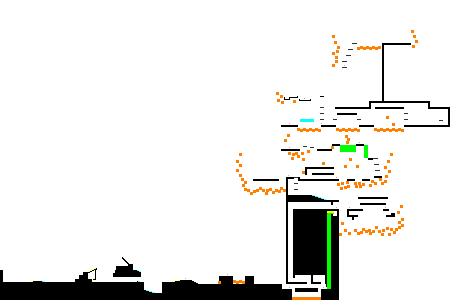
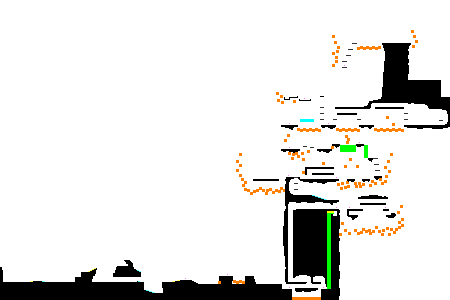
LightningChain tweaks + Forest tweaks
Updated LightningChains for Construction Site.
Update collisionData for Construction Site to be more organic.
Updated collisionData for Forest to make branches more modular.

diff --git a/WorldsApart/WorldsApart/Code/Levels/Level7.cs b/WorldsApart/WorldsApart/Code/Levels/Level7.cs
@@ -63,10 +63,11 @@ namespace WorldsApart.Code.Levels
            
             levelDataTexture = gsPlay.LoadTexture("Levels/level7Data");
 
+
             player1Pos = GridToPosition(5, 280);
             player2Pos = GridToPosition(7, 280);
 
-            //player1Pos = GridToPosition(330, 120);
+            //player1Pos = GridToPosition(353, 40);
             //player2Pos = player1Pos;
 
             portalPos = GridToPosition(394, 41);
@@ -92,9 +93,13 @@ namespace WorldsApart.Code.Levels
 
             MovingPlatform underCrane = gsPlay.AddReversePlatform(gsPlay.LoadTexture("TestSprites/platform"), Level.GridToPosition(new Point(153, 275)), Level.GridToPosition(new Point(153, 282)));
             FlipSwitch crane = gsPlay.AddSwitch(new EventTrigger(this, underCrane), gsPlay.LoadTexture("TestSprites/switch"), Level.GridToPosition(new Point(126, 265)));                                                  //crane switch and platform
-            LightningChain lc1 = gsPlay.AddLightning(crane.position, underCrane.position, Color.Red);
+            LightningChain lc1 = gsPlay.AddLightning(crane.position, GridToPosition(130, 265), Color.Red);
+            lc1.AddVertex(GridToPosition(137, 274));
+            lc1.AddVertex(GridToPosition(141, 274));
+            lc1.AddVertex(underCrane.position);
             lc1.ConvertEndPointToTarget(underCrane);
             crane.AddEvent(new EventTrigger(this, lc1));
+            
 
             gsPlay.AddMoveable(gsPlay.LoadTexture("TestSprites/moveable"), Level.GridToPosition(new Point(195, 278)), .8f);                     //box before saw machine
 
@@ -128,9 +133,15 @@ namespace WorldsApart.Code.Levels
 
             Door d2 = gsPlay.AddFadingDoor(gsPlay.LoadTexture("TestSprites/door"), Level.GridToPosition(new Point(332, 207)), OpenState.Closed);                        //door opened by ball
             Button ballOn = gsPlay.AddButton(new EventTrigger(this, d2), 1, gsPlay.LoadTexture("TestSprites/button"), Level.GridToPosition(new Point(335, 216)));
-            LightningChain lc5 = gsPlay.AddLightning(ballOn.position, GridToPosition(332, 209) + new Vector2(0, 16), Color.Red);
+            LightningChain lc5 = gsPlay.AddLightning(ballOn.position,  GridToPosition(338, 216), Color.Red);
+            lc5.AddVertex(GridToPosition(338, 210));
+            lc5.AddVertex(GridToPosition(332, 210));
             lc5.AddVertex(GridToPosition(332, 209) + new Vector2(0, 0));
             ballOn.AddEvent(new EventTrigger(this, lc5));
+            //338, 216
+            //338, 210
+            //332, 210
+            //332, 209
 
             d3 = gsPlay.AddFadingDoor(gsPlay.LoadTexture("TestSprites/door"), Level.GridToPosition(new Point(370, 207)), OpenState.Closed);                               //fading doors over pit
             d5 = gsPlay.AddFadingDoor(gsPlay.LoadTexture("TestSprites/door"), Level.GridToPosition(new Point(376, 207)), OpenState.Open);
@@ -141,12 +152,13 @@ namespace WorldsApart.Code.Levels
             LightningChain lc7 = gsPlay.AddLightning(FS1.position, GridToPosition(376, 204) + new Vector2(0, 16), Color.Red);
             lc7.AddVertex(GridToPosition(376, 204) + new Vector2(0, 32));
             FS1.AddEvent(new EventTrigger(this, lc7));
-            lc7.defaultActive = true;
-            lc7.SetActive(true);
+            lc6.defaultActive = true;
+            lc6.SetActive(true);
 
             MovingPlatform pitPlatform1 = gsPlay.AddReversePlatform(gsPlay.LoadTexture("TestSprites/platform"), Level.GridToPosition(new Point(365, 210)), Level.GridToPosition(new Point(381, 210)));
             FlipSwitch pitPlatform1Switch = gsPlay.AddSwitch(new EventTrigger(this, pitPlatform1), gsPlay.LoadTexture("TestSprites/switch"), Level.GridToPosition(new Point(364, 202)));     //platform with fading doors 1
-            LightningChain lc8 = gsPlay.AddLightning(pitPlatform1Switch.position, pitPlatform1.position, Color.Red);
+            LightningChain lc8 = gsPlay.AddLightning(pitPlatform1Switch.position, GridToPosition(364, 210), Color.Red);
+            lc8.AddVertex(pitPlatform1.position);
             lc8.ConvertEndPointToTarget(pitPlatform1);
             pitPlatform1Switch.AddEvent(new EventTrigger(this, lc8));
 
@@ -158,27 +170,40 @@ namespace WorldsApart.Code.Levels
 
             MovingPlatform toCrane2p = gsPlay.AddReversePlatform(gsPlay.LoadTexture("TestSprites/platform"), Level.GridToPosition(new Point(384, 216)), Level.GridToPosition(new Point(360, 216)));
             FlipSwitch toCrane2s = gsPlay.AddSwitch(new EventTrigger(this, toCrane2p), gsPlay.LoadTexture("TestSprites/switch"), Level.GridToPosition(new Point(393, 212)));     //platform to crane 2 switch
-            LightningChain lc10 = gsPlay.AddLightning(toCrane2s.position, toCrane2p.position, Color.Red);
+            LightningChain lc10 = gsPlay.AddLightning(toCrane2s.position, GridToPosition(393, 216), Color.Red);
+            lc10.AddVertex(GridToPosition(384, 216));
+            lc10.AddVertex(toCrane2p.position);
             lc10.ConvertEndPointToTarget(toCrane2p);
             toCrane2s.AddEvent(new EventTrigger(this, lc10));
+            //393, 216
+            //384, 216
 
             MovingPlatform crane2 = gsPlay.AddReversePlatform(gsPlay.LoadTexture("TestSprites/platform"), Level.GridToPosition(new Point(343, 198)), Level.GridToPosition(new Point(343, 206)));
             FlipSwitch crane2switch = gsPlay.AddSwitch(new EventTrigger(this, crane2), gsPlay.LoadTexture("TestSprites/switch"), Level.GridToPosition(new Point(350, 214)));     //crane 2 switch and platform
-            LightningChain lc11 = gsPlay.AddLightning(crane2switch.position, crane2.position, Color.Red);
+            LightningChain lc11 = gsPlay.AddLightning(crane2switch.position, GridToPosition(343, 214), Color.Red);
+            lc11.AddVertex(crane2.position);
             lc11.ConvertEndPointToTarget(crane2);
             crane2switch.AddEvent(new EventTrigger(this, lc11));
 
             MovingPlatform crane3 = gsPlay.AddReversePlatform(gsPlay.LoadTexture("TestSprites/platform"), Level.GridToPosition(new Point(252, 185)), Level.GridToPosition(new Point(267, 185)));
-            FlipSwitch crane3switch = gsPlay.AddSwitch(new EventTrigger(this, crane3), gsPlay.LoadTexture("TestSprites/switch"), Level.GridToPosition(new Point(264, 178)));     //crane 3
-            LightningChain lc12 = gsPlay.AddLightning(crane3switch.position, crane3.position, Color.Red);
+            FlipSwitch crane3switch = gsPlay.AddSwitch(new EventTrigger(this, crane3), gsPlay.LoadTexture("TestSprites/switch"), Level.GridToCenterPosition(new Point(259, 178)) + new Vector2(0, -16));     //crane 3
+            LightningChain lc12 = gsPlay.AddLightning(crane3switch.position, GridToCenterPosition(259,180), Color.Red);
+            lc12.AddVertex(crane3.position);
             lc12.ConvertEndPointToTarget(crane3);
             crane3switch.AddEvent(new EventTrigger(this, lc12));
 
             Door d6 = gsPlay.AddFadingDoor(gsPlay.LoadTexture("TestSprites/door"), Level.GridToPosition(new Point(306, 177)), OpenState.Closed);
             FlipSwitch d6s = gsPlay.AddSwitch(new EventTrigger(this, d6), gsPlay.LoadTexture("TestSprites/switch"), Level.GridToPosition(new Point(267, 183)));                       //door switch under crane 3
-            LightningChain lc13 = gsPlay.AddLightning(d6s.position, GridToPosition(306, 179) + new Vector2(0, 16), Color.Red);
-            lc13.AddVertex(GridToPosition(306, 179) + new Vector2(0, 0));
+            LightningChain lc13 = gsPlay.AddLightning(d6s.position, GridToPosition(282, 183), Color.Red);
+            lc13.AddVertex(GridToPosition(282, 168));
+            lc13.AddVertex(GridToPosition(306, 168));
+            lc13.AddVertex(GridToPosition(306, 175));
             d6s.AddEvent(new EventTrigger(this, lc13));
+            //267, 185
+            //282, 185
+            //282, 168
+            //306, 168
+            //306, 175
 
             d7 = gsPlay.AddFadingDoor(gsPlay.LoadTexture("TestSprites/door"), Level.GridToPosition(new Point(315, 177)), OpenState.Closed);                         //multiple fading doors 1
             d8 = gsPlay.AddFadingDoor(gsPlay.LoadTexture("TestSprites/door"), Level.GridToPosition(new Point(321, 177)), OpenState.Closed);
@@ -195,13 +220,13 @@ namespace WorldsApart.Code.Levels
             LightningChain lc16 = gsPlay.AddLightning(FS2.position, GridToPosition(327, 174) + new Vector2(0, 16), Color.Red);
             lc16.AddVertex(GridToPosition(327, 174) + new Vector2(0, 32));
             FS2.AddEvent(new EventTrigger(this, lc16));
-            lc16.defaultActive = true;
-            lc16.SetActive(true);
+            lc14.defaultActive = true;
+            lc14.SetActive(true);
             LightningChain lc17 = gsPlay.AddLightning(FS3.position, GridToPosition(333, 174) + new Vector2(0, 16), Color.Red);
             lc17.AddVertex(GridToPosition(333, 174) + new Vector2(0, 32));
             FS3.AddEvent(new EventTrigger(this, lc17));
-            lc17.defaultActive = true;
-            lc17.SetActive(true);
+            lc15.defaultActive = true;
+            lc15.SetActive(true);
 
             Door d11 = gsPlay.AddFadingDoor(gsPlay.LoadTexture("TestSprites/door"), Level.GridToPosition(new Point(333, 171)), OpenState.Closed);
             FlipSwitch d11s = gsPlay.AddSwitch(new EventTrigger(this, d11), gsPlay.LoadTexture("TestSprites/switch"), Level.GridToPosition(new Point(335, 178)));
@@ -218,28 +243,32 @@ namespace WorldsApart.Code.Levels
 
             d12 = gsPlay.AddFadingDoor(gsPlay.LoadTexture("TestSprites/platform"), Level.GridToPosition(new Point(341, 127)), OpenState.Closed);                               //fading platforms to portal item
             d13 = gsPlay.AddFadingDoor(gsPlay.LoadTexture("TestSprites/platform"), Level.GridToPosition(new Point(354, 127)), OpenState.Open);
-            FlipSwitch FS4 = gsPlay.AddSwitch(new EventTrigger(this, 4), gsPlay.LoadTexture("TestSprites/switch"), Level.GridToPosition(new Point(347, 112)));
-            LightningChain lc19 = gsPlay.AddLightning(FS4.position, d12.position, Color.Red);
+            FlipSwitch FS4 = gsPlay.AddSwitch(new EventTrigger(this, 4), gsPlay.LoadTexture("TestSprites/switch"), Level.GridToCenterPosition(new Point(347, 112)) + new Vector2(0, -16)); //multi-state!
+            LightningChain lc19 = gsPlay.AddLightning(FS4.position, GridToCenterPosition(347, 114), Color.Red);
+            lc19.AddVertex(d12.position);
             FS4.AddEvent(new EventTrigger(this, lc19));
-            LightningChain lc20 = gsPlay.AddLightning(FS4.position, d13.position, Color.Red);
+            LightningChain lc20 = gsPlay.AddLightning(FS4.position, GridToCenterPosition(347, 114), Color.Red);
+            lc20.AddVertex(d13.position);
             FS4.AddEvent(new EventTrigger(this, lc20));
-            lc20.defaultActive = true;
-            lc20.SetActive(true);
+            lc19.defaultActive = true;
+            lc19.SetActive(true);
             
 
             Door d14 = gsPlay.AddFadingDoor(gsPlay.LoadTexture("TestSprites/door"), Level.GridToPosition(new Point(356, 111)), OpenState.Closed);                               //ease of access
-            FlipSwitch d14s = gsPlay.AddSwitch(new EventTrigger(this, d14), gsPlay.LoadTexture("TestSprites/switch"), Level.GridToPosition(new Point(360, 124)));
+            FlipSwitch d14s = gsPlay.AddSwitch(new EventTrigger(this, d14), gsPlay.LoadTexture("TestSprites/switch"), Level.GridToPosition(new Point(360, 124))); 
             LightningChain lc21 = gsPlay.AddLightning(d14s.position, GridToPosition(356, 113) + new Vector2(0, 16), Color.Red);
             lc21.AddVertex(GridToPosition(356, 113) + new Vector2(0, 0));
             d14s.AddEvent(new EventTrigger(this, lc21));
 
             gsPlay.AddCircularPlatform(gsPlay.LoadTexture("TestSprites/platform"), Level.GridToPosition(new Point(322, 95)), 256, 360);                         
-
+            
             CircularPlatform c2 = gsPlay.AddActivateCircularPlatform(gsPlay.LoadTexture("TestSprites/platform"), Level.GridToPosition(new Point(300, 98)), 256, 360);
             c2.increment = -c2.increment;
-            FlipSwitch FS5 = gsPlay.AddSwitch(new EventTrigger(this, c2), gsPlay.LoadTexture("TestSprites/switch"), Level.GridToPosition(new Point(322, 95)));
+            FlipSwitch FS5 = gsPlay.AddSwitch(new EventTrigger(this, c2), gsPlay.LoadTexture("TestSprites/switch"), Level.GridToPosition(new Point(322, 95))); 
             FS5.SetPlayerMode(PlayerObjectMode.Two);
-            LightningChain lc22 = gsPlay.AddLightning(FS5.position, c2.position, Color.Red);
+            LightningChain lc22 = gsPlay.AddLightning(FS5.position, GridToPosition(322, 98), Color.Red);
+            lc22.AddVertex(GridToPosition(300, 98));
+            lc22.AddVertex(GridToPosition(300, 98));
             lc22.ConvertEndPointToTarget(c2);
             FS5.AddEvent(new EventTrigger(this, lc22));
             Moveable m3 = gsPlay.AddMoveable(gsPlay.LoadTexture("TestSprites/moveable"), Level.GridToPosition(new Point(302, 97)), .8f);
@@ -253,7 +282,7 @@ namespace WorldsApart.Code.Levels
             c4.startAngle = c4.angle;
             c4.SetPlayerMode(PlayerObjectMode.One);
 
-            c5 = gsPlay.AddActivateCircularPlatform(gsPlay.LoadTexture("TestSprites/platform"), Level.GridToPosition(new Point(343, 78)), 256, 360);
+            c5 = gsPlay.AddActivateCircularPlatform(gsPlay.LoadTexture("TestSprites/platform"), Level.GridToPosition(new Point(343 , 78)), 256, 360);
             c5.increment = -c5.increment;
             c5.SetPlayerMode(PlayerObjectMode.Two);
             c6 = gsPlay.AddActivateCircularPlatform(gsPlay.LoadTexture("TestSprites/platform"), Level.GridToPosition(new Point(343, 78)), 256, 360);
@@ -262,18 +291,39 @@ namespace WorldsApart.Code.Levels
             c6.SetPlayerMode(PlayerObjectMode.One);
 
             Button b1 = gsPlay.AddButton(new EventTrigger(this, 5), 1, gsPlay.LoadTexture("TestSprites/button"), Level.GridToPosition(new Point(287, 99)));
-            LightningChain lc23 = gsPlay.AddLightning(b1.position, c3.position, Color.Red);
+            //287, 87
+            //343, 87
+            //Down below: 343, 98
+            LightningChain lc23 = gsPlay.AddLightning(b1.position, GridToPosition(287, 87), Color.Red);
+            lc23.AddVertex(GridToPosition(343, 87));
+            lc23.AddVertex(GridToPosition(343, 98));
+            lc23.AddVertex(GridToPosition(338, 98));
+            lc23.AddVertex(c3.position);
             lc23.ConvertEndPointToTarget(c3);
             b1.AddEvent(new EventTrigger(this, lc23));
-            LightningChain lc24 = gsPlay.AddLightning(b1.position, c4.position, Color.Red);
+            lc23.SetPlayerMode(PlayerObjectMode.Two);
+            LightningChain lc24 = gsPlay.AddLightning(b1.position, GridToPosition(287, 87), Color.Red);
+            lc24.AddVertex(GridToPosition(343, 87));
+            lc24.AddVertex(GridToPosition(343, 98));
+            lc24.AddVertex(GridToPosition(348, 98));
+            lc24.AddVertex(c4.position);
             lc24.ConvertEndPointToTarget(c4);
             b1.AddEvent(new EventTrigger(this, lc24));
-            LightningChain lc25 = gsPlay.AddLightning(b1.position, c5.position, Color.Red);
+            lc24.SetPlayerMode(PlayerObjectMode.One);
+            LightningChain lc25 = gsPlay.AddLightning(b1.position, GridToPosition(287, 87), Color.Red);
+            lc25.AddVertex(GridToPosition(343, 87));
+            lc25.AddVertex(GridToPosition(343, 78));
+            lc25.AddVertex(c5.position);
             lc25.ConvertEndPointToTarget(c5);
             b1.AddEvent(new EventTrigger(this, lc25));
-            LightningChain lc26 = gsPlay.AddLightning(b1.position, c6.position, Color.Red);
+            lc25.SetPlayerMode(PlayerObjectMode.Two);
+            LightningChain lc26 = gsPlay.AddLightning(b1.position, GridToPosition(287, 87), Color.Red);
+            lc26.AddVertex(GridToPosition(343, 87));
+            lc26.AddVertex(GridToPosition(343, 78));
+            lc26.AddVertex(c6.position);
             lc26.ConvertEndPointToTarget(c6);
             b1.AddEvent(new EventTrigger(this, lc26));
+            lc26.SetPlayerMode(PlayerObjectMode.One);
 
 
             Door p4 = gsPlay.AddOpeningDoor(gsPlay.LoadTexture("TestSprites/platform"), Level.GridToPosition(new Point(80, 116)), Level.GridToPosition(new Point(80, 113)), OpenState.Closed);
@@ -281,6 +331,8 @@ namespace WorldsApart.Code.Levels
 
             Door p5 = gsPlay.AddOpeningDoor(gsPlay.LoadTexture("TestSprites/platform"), Level.GridToPosition(new Point(82, 116)), Level.GridToPosition(new Point(82, 113)), OpenState.Closed);
             gsPlay.AddBouncyBall(0, gsPlay.LoadTexture("TestSprites/pickUp"), Level.GridToPosition(new Point(82, 112)));
+
+
 
             p1 = gsPlay.AddReversePlatform(gsPlay.LoadTexture("TestSprites/platform"), Level.GridToPosition(new Point(376, 126)), Level.GridToPosition(new Point(402, 126)));
             p1.SetPlayerMode(PlayerObjectMode.One);
@@ -294,17 +346,19 @@ namespace WorldsApart.Code.Levels
             FlipSwitch FS6 = gsPlay.AddSwitch(new EventTrigger(this, p4), gsPlay.LoadTexture("TestSprites/switch"), Level.GridToPosition(new Point(376, 118)));
             FS6.SetPlayerMode(PlayerObjectMode.Two);
             LightningChain lcpuzzle1 = gsPlay.AddLightning(FS6.position, p2.position, Color.Aqua);
+            lcpuzzle1.AddVertex(p1.position);
             lcpuzzle1.ConvertEndPointToTarget(p2);
             FS6.AddEvent(new EventTrigger(this, lcpuzzle1));
 
             FlipSwitch FS7 = gsPlay.AddSwitch(new EventTrigger(this, p5), gsPlay.LoadTexture("TestSprites/switch"), Level.GridToPosition(new Point(376, 124)));
             FS7.SetPlayerMode(PlayerObjectMode.One);
             LightningChain lcpuzzle2 = gsPlay.AddLightning(FS7.position, p1.position, Color.Orange);
+            lcpuzzle2.AddVertex(p1.position);
             lcpuzzle2.ConvertEndPointToTarget(p1);
             FS7.AddEvent(new EventTrigger(this, lcpuzzle2));
 
 
-            MovingPlatform p3 = gsPlay.AddReversePlatform(gsPlay.LoadTexture("TestSprites/platform"), Level.GridToPosition(new Point(380, 44)), Level.GridToPosition(new Point(359, 44)));
+            MovingPlatform p3 = gsPlay.AddReversePlatform(gsPlay.LoadTexture("TestSprites/platform"), Level.GridToPosition(new Point(359, 44)), Level.GridToPosition(new Point(380, 44)));
 
             Door p6 = gsPlay.AddOpeningDoor(gsPlay.LoadTexture("TestSprites/platform"), Level.GridToPosition(new Point(90, 116)), Level.GridToPosition(new Point(90, 113)), OpenState.Closed);
             gsPlay.AddBouncyBall(0, gsPlay.LoadTexture("TestSprites/pickUp"), Level.GridToPosition(new Point(90, 112)));

diff --git a/WorldsApart/WorldsApart/Code/Levels/Level.cs b/WorldsApart/WorldsApart/Code/Levels/Level.cs
@@ -304,10 +304,18 @@ namespace WorldsApart.Code.Levels
         {
             return GridToPosition(new Point(x, y));
         }
-
         public static Vector2 GridToPosition(Point gridSpace)
         {
             return new Vector2(gridSpace.X * collisionSize, gridSpace.Y * collisionSize);
+        }
+
+        public static Vector2 GridToCenterPosition(int x, int y)
+        {
+            return GridToPosition(x, y) + new Vector2(16, 16);
+        }
+        public static Vector2 GridToCenterPosition(Point gridSpace)
+        {
+            return GridToCenterPosition(gridSpace.X, gridSpace.Y);
         }
 
         public static void CheckForPlayerStuff(Player player)

diff --git a/WorldsApart/WorldsApart/Code/Entities/Door.cs b/WorldsApart/WorldsApart/Code/Entities/Door.cs
@@ -33,6 +33,8 @@ namespace WorldsApart.Code.Entities
 
         public DoorType doorType = DoorType.Opening;
 
+        public int fadeRate = 30;
+
         public Door(Texture2D texture, Vector2 position)
             : base(texture, position)
         {
@@ -85,12 +87,12 @@ namespace WorldsApart.Code.Entities
 
         public void Appear()
         {
-            am.StartFade(30, alpha, 255);
+            am.StartFade(fadeRate, alpha, 255);
         }
 
         public void Disappear()
         {
-            am.StartFade(30, alpha, 0);
+            am.StartFade(fadeRate, alpha, 0);
         }
 
         public override void ActivateEvent(TriggerState ts)

diff --git a/WorldsApart/WorldsApart/Code/Gamestates/GameStateManager.cs b/WorldsApart/WorldsApart/Code/Gamestates/GameStateManager.cs
@@ -57,7 +57,7 @@ namespace WorldsApart.Code.Gamestates
         public int screenTransitionRate = 60;
         public GameStateType transitionType;
 
-        public int currentLevel = 1;
+        public int currentLevel = 1; 
         public int goodness = 0;
 
         //NetServer server;
